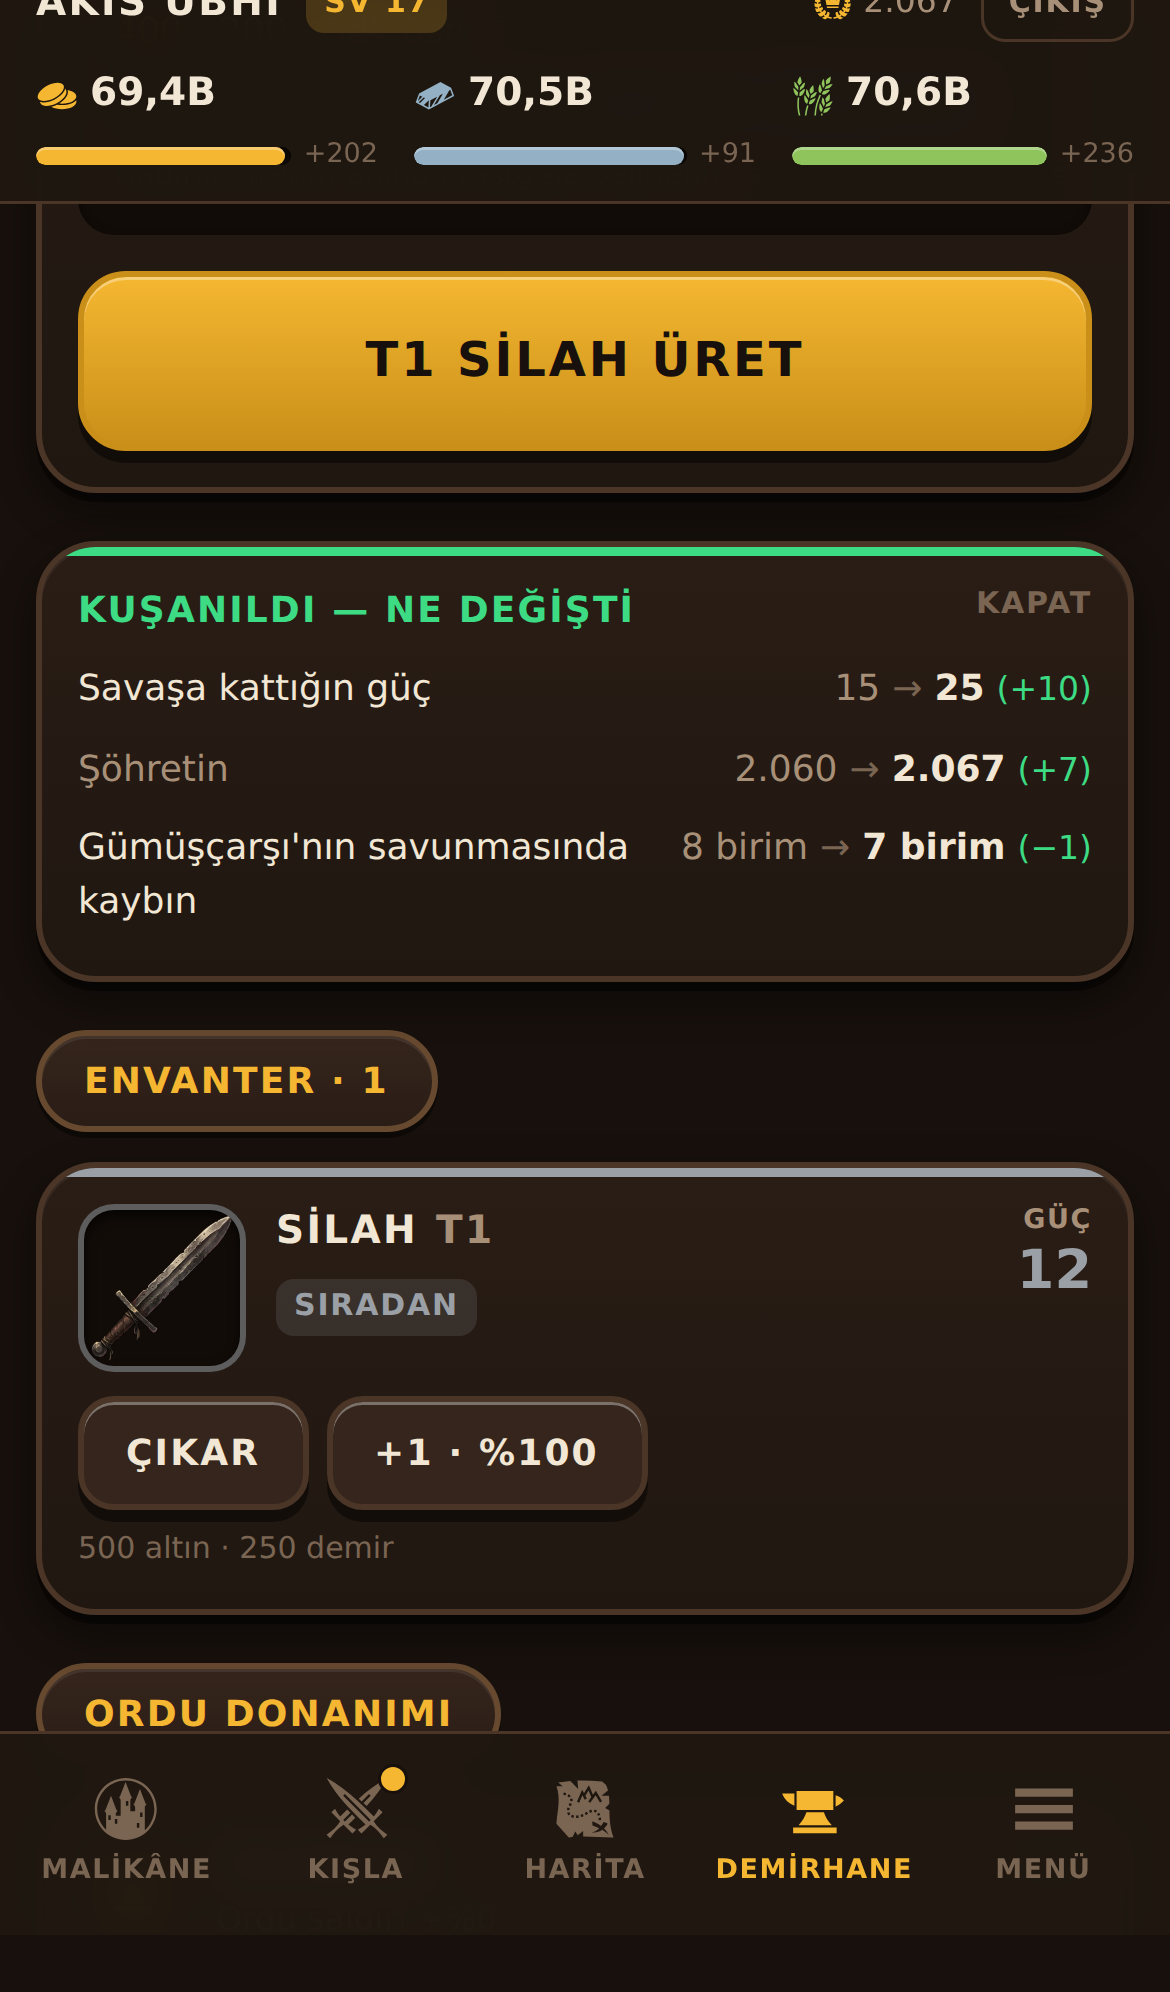
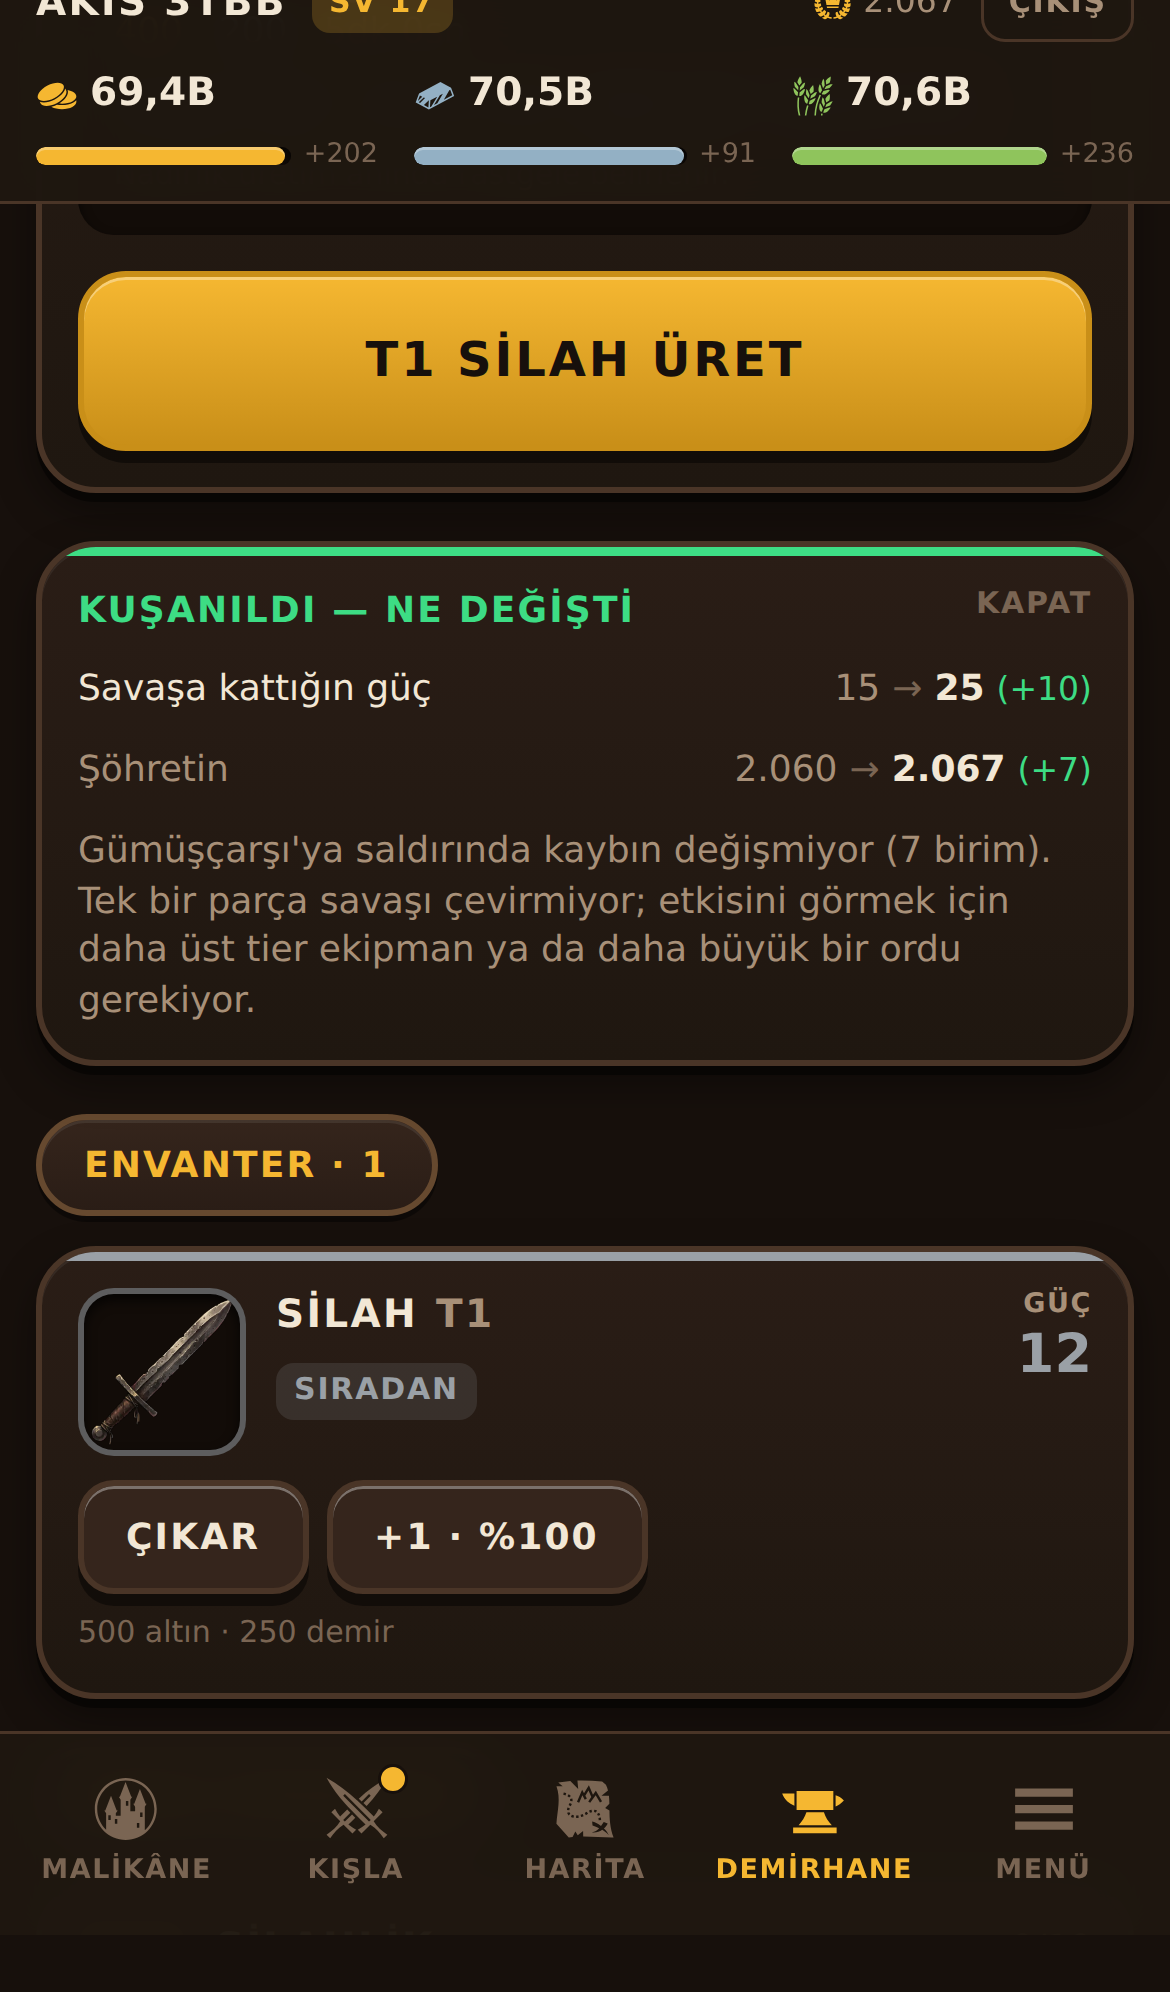
K6b: savunmada yarali donus - tek vurusun acisini azalt
docs/09 §3.6 iki oneri birakmisti: kayip tavani ve yarali donus. Kayip
tavanini K6'da reddettim (uc vurus yine binde biri birakiyor, sorun tek
savasin siddeti degil zinciriydi) ve zinciri kesen kalkani koydum. Bu
commit ikinci yarisi: TEK bir vurusun acisini azaltmak.

Bir oyuncu savunmasinda kaybedilen askerin bir kismi olmuyor,
yaralaniyor ve geri donuyor. Kazansa da kaybetse de.

Asimetri kasitli ve butun tasarim onun uzerinde: saldiran riski KENDI
aldi -- ordusunu sectti, hedefini sectti, zamanini sectti. Savunan
hicbirini secmedi, saldiriya ugramayi da secmedi. Bu yuzden yarali donus
yalniz savunanin; saldiranin kaybi degismiyor ve test bunu kilitliyor.

NPC garnizonuna islemiyor: orada korunacak kimse yok ve vermek oyuncunun
erken ilerlemesini yavaslatirdi. Bayrak (savunanOyuncu) hem savasta hem
ONIZLEMEDE geciriliyor -- gecirilmese oyuncuya gosterilen "savunanin
kaybi" gerceklesenden farkli cikardi ve onizlemeye guven, duzeltmeye
calistigimiz seyin ta kendisi.

Oran kucuk ve tavanli. Buyutmek haritayi dondururdu: savunmasi
kirilmayan bolge el degistirmez, fetih olmayan bir strateji oyunu durur.
Vaiz Bertan'in generallik bonusu (kayip_geri_donus) ile TOPLANIYOR ama
toplam tavani asmiyor; tavansiz birakilsa Bertan'li savunan kayiplarinin
yarisindan fazlasini geri alirdi.

Sistem gorunur: BattleResult artik yaraliDonen alanini tasiyor ve rapor
"75 asker olu sanilmisti, yarali olarak dondu" diye yaziyor. Alan
[…]

diff --git a/packages/shared/src/balance.test.ts b/packages/shared/src/balance.test.ts
@@ -11,6 +11,7 @@ import {
   WORLD_MAP,
   accrue,
   armySlots,
+  armyCount,
   bosGeneralBonus,
   commandCapacity,
   fortressBonus,
@@ -786,6 +787,83 @@ describe('günlük ödül', () => {
     expect(odulAlindiMi(new Date('2026-09-03T01:00:00Z'), simdi)).toBe(true);
     expect(odulAlindiMi(new Date('2026-09-02T23:59:59Z'), simdi)).toBe(false);
     expect(odulAlindiMi(null, simdi)).toBe(false);
+  });
+});
+
+describe('savunmada yaralı dönüş', () => {
+  const taraf = (units: Army, savunan = false): Side => ({
+    units,
+    gearBonus: { saldiri: 0, savunma: 0, can: 0 },
+    generalBonus: bosGeneralBonus(),
+    lordContribution: 0,
+    leadership: 10,
+    fortressBonus: 0,
+    isDefender: savunan,
+  });
+  const ctx = {
+    defenderStore: { altin: 0, demir: 0, erzak: 0 },
+    attackerCunning: 0,
+    canCapture: true,
+  };
+
+  it('oyuncu savunmasında kayıp azalıyor', () => {
+    const a = taraf({ mizrakci: 300 });
+    const d = taraf({ mizrakci: 100 }, true);
+    const npc = simulateBattle(a, d, 'yarali', ctx);
+    const oyuncu = simulateBattle(a, d, 'yarali', { ...ctx, savunanOyuncu: true });
+    expect(armyCount(oyuncu.defenderLosses)).toBeLessThan(armyCount(npc.defenderLosses));
+  });
+
+  it('SALDIRANIN kaybı değişmiyor — asimetri bilerek', () => {
+    // Saldıran riski kendi aldı; yaralı dönüş savunanın ayrıcalığı.
+    const a = taraf({ mizrakci: 300 });
+    const d = taraf({ mizrakci: 100 }, true);
+    const npc = simulateBattle(a, d, 'yarali', ctx);
+    const oyuncu = simulateBattle(a, d, 'yarali', { ...ctx, savunanOyuncu: true });
+    expect(oyuncu.attackerLosses).toEqual(npc.attackerLosses);
+  });
+
+  it('kazananı değiştirmiyor — sadece kayıpları', () => {
+    const a = taraf({ mizrakci: 300 });
+    const d = taraf({ mizrakci: 100 }, true);
+    const npc = simulateBattle(a, d, 'yarali', ctx);
+    const oyuncu = simulateBattle(a, d, 'yarali', { ...ctx, savunanOyuncu: true });
+    expect(oyuncu.winner).toBe(npc.winner);
+  });
+
+  it('savunan kaybetse de yaralı dönüyor', () => {
+    // Asıl derdi bu: bir gecede silinen oyuncu geri gelmiyor.
+    const a = taraf({ mizrakci: 500 });
+    const d = taraf({ milis: 40 }, true);
+    const r = simulateBattle(a, d, 'ezici', { ...ctx, savunanOyuncu: true });
+    expect(r.winner).toBe('attacker');
+    expect(armyCount(r.defenderSurvivors)).toBeGreaterThan(0);
+  });
+
+  it('geri dönen asker survivors olarak sayılıyor — yoktan asker doğmuyor', () => {
+    const d = taraf({ mizrakci: 100 }, true);
+    const r = simulateBattle(taraf({ mizrakci: 300 }), d, 'toplam', {
+      ...ctx,
+      savunanOyuncu: true,
+    });
+    expect(armyCount(r.defenderLosses) + armyCount(r.defenderSurvivors)).toBe(100);
+  });
+
+  it('oran tavanın altında — savunma haritayı dondurmuyor', () => {
+    const k = B.savas.kayip;
+    expect(k.savunmada_yarali_donus).toBeGreaterThan(0);
+    expect(k.savunmada_yarali_donus).toBeLessThanOrEqual(k.yarali_donus_tavani);
+    expect(k.yarali_donus_tavani).toBeLessThan(1);
+  });
+
+  it('ezici saldırı hâlâ bölgeyi alabiliyor', () => {
+    // Yaralı dönüş fethi imkânsızlaştırmamalı: ele geçirme survivors > 0
+    // ve eşik şartına bağlı, savunanın hayatta kalması onu engellemiyor.
+    const r = simulateBattle(taraf({ mizrakci: 800 }), taraf({ milis: 30 }, true), 'fetih2', {
+      ...ctx,
+      savunanOyuncu: true,
+    });
+    expect(r.captured).toBe(true);
   });
 });
 

diff --git a/packages/shared/src/combat.ts b/packages/shared/src/combat.ts
@@ -34,6 +34,15 @@ export interface BattleContext {
    * saldıran bölgede olmayan kaynağı kazanır.
    */
   liderAvi?: boolean;
+  /**
+   * Savunan bir OYUNCU mu (NPC garnizonu değil)?
+   *
+   * Yaralı dönüş yalnız oyuncu savunmasında işliyor. NPC garnizonuna
+   * vermek oyuncunun ilerlemesini yavaşlatırdı ve orada korunacak kimse
+   * yok. Önizleme de aynı bayrağı geçirmek zorunda, yoksa oyuncuya
+   * gösterilen "savunanın kaybı" gerçekleşenden farklı çıkar.
+   */
+  savunanOyuncu?: boolean;
 }
 
 export function armyCount(army: Army): number {
@@ -290,13 +299,37 @@ export function simulateBattle(
   let attackerLosses = distributeLosses(attacker.units, attackerFraction);
   let defenderLosses = distributeLosses(defender.units, defenderFraction);
 
-  // Vaiz Bertan: kazananın kayıplarının bir kısmı yaralı olarak geri döner
-  const winnerSide = attackerWins ? attacker : defender;
-  const recovery = winnerSide.generalBonus.kayipGeriDonus;
-  if (recovery > 0) {
-    if (attackerWins) attackerLosses = scaleArmy(attackerLosses, 1 - recovery);
-    else defenderLosses = scaleArmy(defenderLosses, 1 - recovery);
+  // Yaralı dönüş: "ölen" sayılan askerin bir kısmı aslında yaralı.
+  //
+  // İki kaynağı var ve TOPLANIYORLAR:
+  //  - Vaiz Bertan (generalBonus.kayipGeriDonus) yalnız KAZANANA işler.
+  //  - Savunmada yaralı dönüş yalnız SAVUNAN OYUNCUYA işler, kazansa da
+  //    kaybetse de. Asimetri kasıtlı: saldıran riski kendi aldı, savunan
+  //    almadı — saldırıya uğramayı seçmedi (docs/09 §3.6).
+  //
+  // Toplam tavanlı. Tavansız bırakılsa Vaiz Bertan'lı savunan oyuncu
+  // kayıplarının yarısından fazlasını geri alır ve savunması kırılmayan
+  // bölge el değiştirmez; fetih olmayan bir strateji oyunu durur.
+  const tavan = B.savas.kayip.yarali_donus_tavani;
+  const generalDonusu = (side: Side): number => side.generalBonus.kayipGeriDonus;
+
+  const saldiranDonus = attackerWins ? generalDonusu(attacker) : 0;
+  const savunanDonus =
+    (attackerWins ? 0 : generalDonusu(defender)) +
+    (ctx.savunanOyuncu ? B.savas.kayip.savunmada_yarali_donus : 0);
+
+  const saldiranHamKayip = attackerLosses;
+  const savunanHamKayip = defenderLosses;
+  if (saldiranDonus > 0) {
+    attackerLosses = scaleArmy(attackerLosses, 1 - Math.min(tavan, saldiranDonus));
   }
+  if (savunanDonus > 0) {
+    defenderLosses = scaleArmy(defenderLosses, 1 - Math.min(tavan, savunanDonus));
+  }
+  const yaraliDonen = {
+    saldiran: subtractArmy(saldiranHamKayip, attackerLosses),
+    savunan: subtractArmy(savunanHamKayip, defenderLosses),
+  };
 
   const attackerSurvivors = subtractArmy(attacker.units, attackerLosses);
   const defenderSurvivors = subtractArmy(defender.units, defenderLosses);
@@ -323,6 +356,7 @@ export function simulateBattle(
       : { altin: 0, demir: 0, erzak: 0 };
 
   return {
+    yaraliDonen,
     winner: attackerWins ? 'attacker' : 'defender',
     rounds,
     attackerLosses,

diff --git a/apps/web/src/components/SavasRaporu.tsx b/apps/web/src/components/SavasRaporu.tsx
@@ -159,15 +159,19 @@ function TarafKarti({
   ad,
   kayip,
   kalan,
+  yarali,
   vurgu,
 }: {
   baslik: string;
   ad: string;
   kayip: Army;
   kalan: Army;
+  /** Ölü sayılıp yaralı dönenler — kayıp sayısından zaten düşülmüş. */
+  yarali?: Army;
   vurgu?: string;
 }) {
   const gorunen = UNIT_TYPES.filter((u) => (kayip[u] ?? 0) > 0 || (kalan[u] ?? 0) > 0);
+  const yaraliSayi = toplam(yarali);
 
   return (
     <Kart className="p-3" vurgu={vurgu}>
@@ -199,6 +203,12 @@ function TarafKarti({
               </li>
             ))}
           </ul>
+          {yaraliSayi > 0 && (
+            <p className="mt-1.5 text-[11px] text-yesil">
+              {yaraliSayi} asker ölü sanılmıştı, yaralı olarak döndü. Kayıp sayısı bunu
+              çıkardıktan sonrası.
+            </p>
+          )}
         </>
       )}
     </Kart>
@@ -506,6 +516,7 @@ export function SavasRaporu({
                 ad={savas.attacker.name}
                 kayip={savas.log.attackerLosses}
                 kalan={savas.log.attackerSurvivors}
+                yarali={savas.log.yaraliDonen?.saldiran}
                 vurgu={saldiranBenim ? 'var(--color-altin)' : undefined}
               />
               <TarafKarti
@@ -513,6 +524,7 @@ export function SavasRaporu({
                 ad={savas.defender?.name ?? 'Garnizon'}
                 kayip={savas.log.defenderLosses}
                 kalan={savas.log.defenderSurvivors}
+                yarali={savas.log.yaraliDonen?.savunan}
                 vurgu={!saldiranBenim ? 'var(--color-altin)' : undefined}
               />
 

diff --git a/apps/api/src/services/march.ts b/apps/api/src/services/march.ts
@@ -422,6 +422,8 @@ export async function resolveMarch(marchId: string): Promise<boolean> {
         ).kurnazlik,
         canCapture: true,
         liderAvi: await liderAviGecerli(march.worldId, defenderLordId, march.lordId, tx),
+        // Yaralı dönüş yalnız oyuncu savunmasında (docs/09 §3.6).
+        savunanOyuncu: defenderLordId !== null,
       });
 
       const attackerWon = result.winner === 'attacker';
@@ -586,6 +588,10 @@ export async function resolveMarch(marchId: string): Promise<boolean> {
             // hangi savaşın atlattığını söylemez.
             attackerGeneralYukselisleri: saldiranYukselisleri,
             defenderGeneralYukselisleri: savunanYukselisleri,
+            // Ölü sayılıp yaralı dönenler. Kayıp sayısı zaten düşülmüş
+            // hâlde yazılıyor; bu alan olmasa oyuncu daha az kayıp
+            // verdiğini görür ama nedenini bilmezdi.
+            yaraliDonen: result.yaraliDonen,
             sonuc: {
               saldiran: { oncesi: saldiranOnce, sonrasi: saldiranSonra },
               savunan:

diff --git a/packages/shared/src/types.ts b/packages/shared/src/types.ts
@@ -122,6 +122,14 @@ export interface BattleResult {
   captured: boolean;
   loot: Resources;
   seed: string;
+  /**
+   * Ölü sayılıp da yaralı olarak geri dönenler.
+   *
+   * Kayıp sayısı zaten düşülmüş hâlde dönüyor; bu alan FARKI taşıyor.
+   * Olmasa sistem görünmez kalırdı: oyuncu daha az kayıp verdiğini
+   * görür ama nedenini bilmezdi, bilmediği bir şey de onu rahatlatmaz.
+   */
+  yaraliDonen: { saldiran: Army; savunan: Army };
 }
 
 export interface GeneralDef {

diff --git a/apps/web/src/api/client.ts b/apps/web/src/api/client.ts
@@ -437,6 +437,8 @@ export interface BattleDto {
     /** Bu savaşta seviye atlayanlar. Eski savaşlarda yok. */
     attackerGeneralYukselisleri?: GeneralYukselisiDto[];
     defenderGeneralYukselisleri?: GeneralYukselisiDto[];
+    /** Ölü sayılıp yaralı dönenler. Eski savaşlarda yok. */
+    yaraliDonen?: { saldiran: Army; savunan: Army };
     /** Savaşın iki tarafta ne değiştirdiği. Eski savaşlarda yok. */
     sonuc?: {
       saldiran: LordOzetiDto;

diff --git a/apps/api/src/routes/map.ts b/apps/api/src/routes/map.ts
@@ -494,6 +494,10 @@ export async function mapRoutes(app: FastifyInstance): Promise<void> {
         },
         attackerCunning: 0,
         canCapture: true,
+        // Yaralı dönüş savunanın kaybını değiştiriyor; önizleme aynı
+        // bayrağı geçirmezse oyuncuya gösterilen "savunanın kaybı"
+        // gerçekleşenden farklı çıkardı.
+        savunanOyuncu: region.ownerLordId !== null,
       },
     );
     const result = ornek.ortanca;

diff --git a/docs/01-oyun-tasarimi.md b/docs/01-oyun-tasarimi.md
@@ -276,6 +276,29 @@ sonsuz saldıramaz; her savaş yeniden yatırım ister ve ekonomi savaşa bağla
 Her tura seed'li ±%7 varyans eklenir: sonuç kesin değildir ama güçlü taraf
 ~%95 kazanır. Yani ne "zar oyunu" ne de "hesap makinesi" olur.
 
+### Savunmada yaralı dönüş
+
+Bir oyuncu savunmasında kaybedilen askerin **bir kısmı ölmez, yaralanır** ve
+geri döner. Kazansa da kaybetse de.
+
+**Neden asimetrik:** saldıran riski **kendi** aldı — ordusunu seçti, hedefini
+seçti, zamanını seçti. Savunan hiçbirini seçmedi; saldırıya uğramayı da
+seçmedi. Bir gecede ordusu silinen oyuncu geri gelmiyor (docs/09 §3.6) ve
+bunun iki yarısı var: §7'deki yağma kalkanı **zinciri** kesiyor, yaralı
+dönüş **tek bir vuruşun** acısını azaltıyor.
+
+Oran küçük tutuldu. Büyütmek haritayı dondururdu: savunması kırılmayan bölge
+el değiştirmez, fetih olmayan bir strateji oyunu da durur. Sayı
+`balance.json` içinde, tavanı Vaiz Bertan'ın generallik bonusuyla toplanınca
+da aşılmıyor.
+
+**NPC garnizonuna işlemez.** Orada korunacak kimse yok ve vermek oyuncunun
+erken ilerlemesini yavaşlatırdı.
+
+Savaş raporu bunu ayrıca yazıyor: kayıp sayısı yaralılar düşülmüş hâlde
+görünüyor, altında "şu kadar asker ölü sanılmıştı, yaralı döndü" satırı var.
+Görünmeyen koruma rahatlatmıyor.
+
 ### Bölge ele geçirme
 
 Bölge el değiştirir ancak: **garnizonun tamamı yok edilir** ve saldırganın

diff --git a/docs/09-oyun-keyfi.md b/docs/09-oyun-keyfi.md
@@ -181,8 +181,11 @@ tazele" — koruma görünmezse rahatlatmıyor.
 sorunu çözmüyor; %90'lık üç vuruş yine ordunun binde birini bırakıyor.
 Sorun tek savaşın şiddeti değil, savaşların **arka arkaya** gelmesiydi.
 
-**Ne ekleyebiliriz:** savunmada kaybedilen askerin bir kısmının **yaralı**
-dönmesi (henüz yok).
+**K6b ile tamamlandı:** savunmada kaybedilen askerin bir kısmı ölmüyor,
+yaralanıp geri dönüyor — kazansa da kaybetse de. Asimetri kasıtlı: saldıran
+riski kendi aldı, savunan almadı. K6 kalkanı zinciri kesiyordu, bu tek bir
+vuruşun acısını azaltıyor. Rapor ayrıca söylüyor, yoksa görünmeyen koruma
+rahatlatmaz.
 
 ### 3.7 Anlaşılmayan savaş matematiği
 
